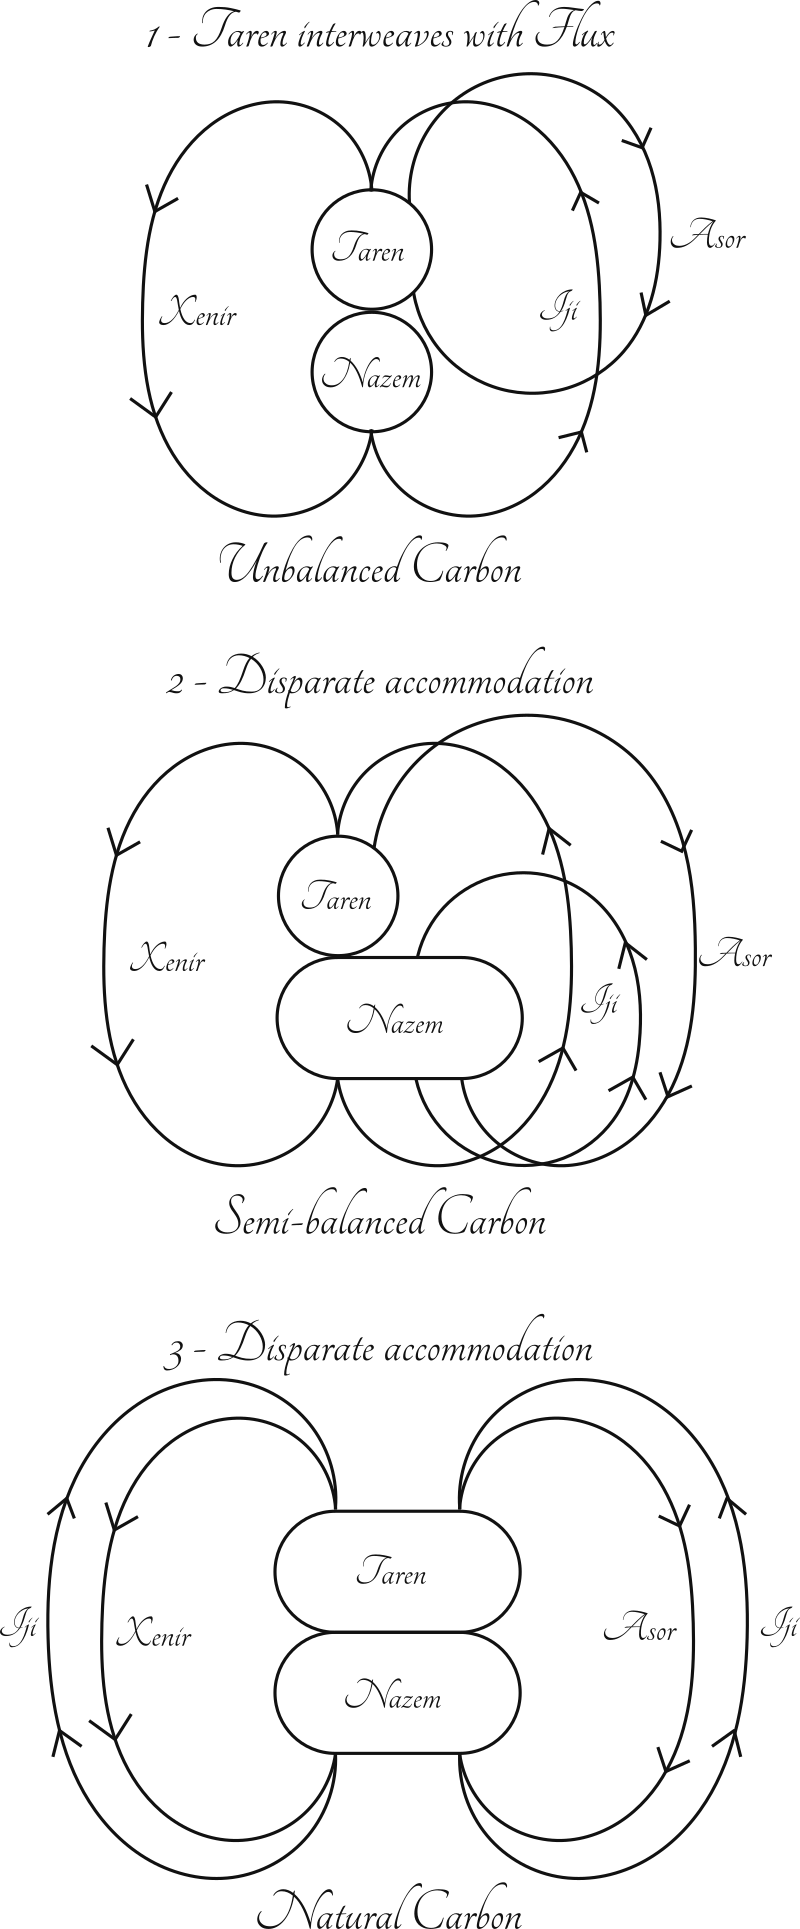
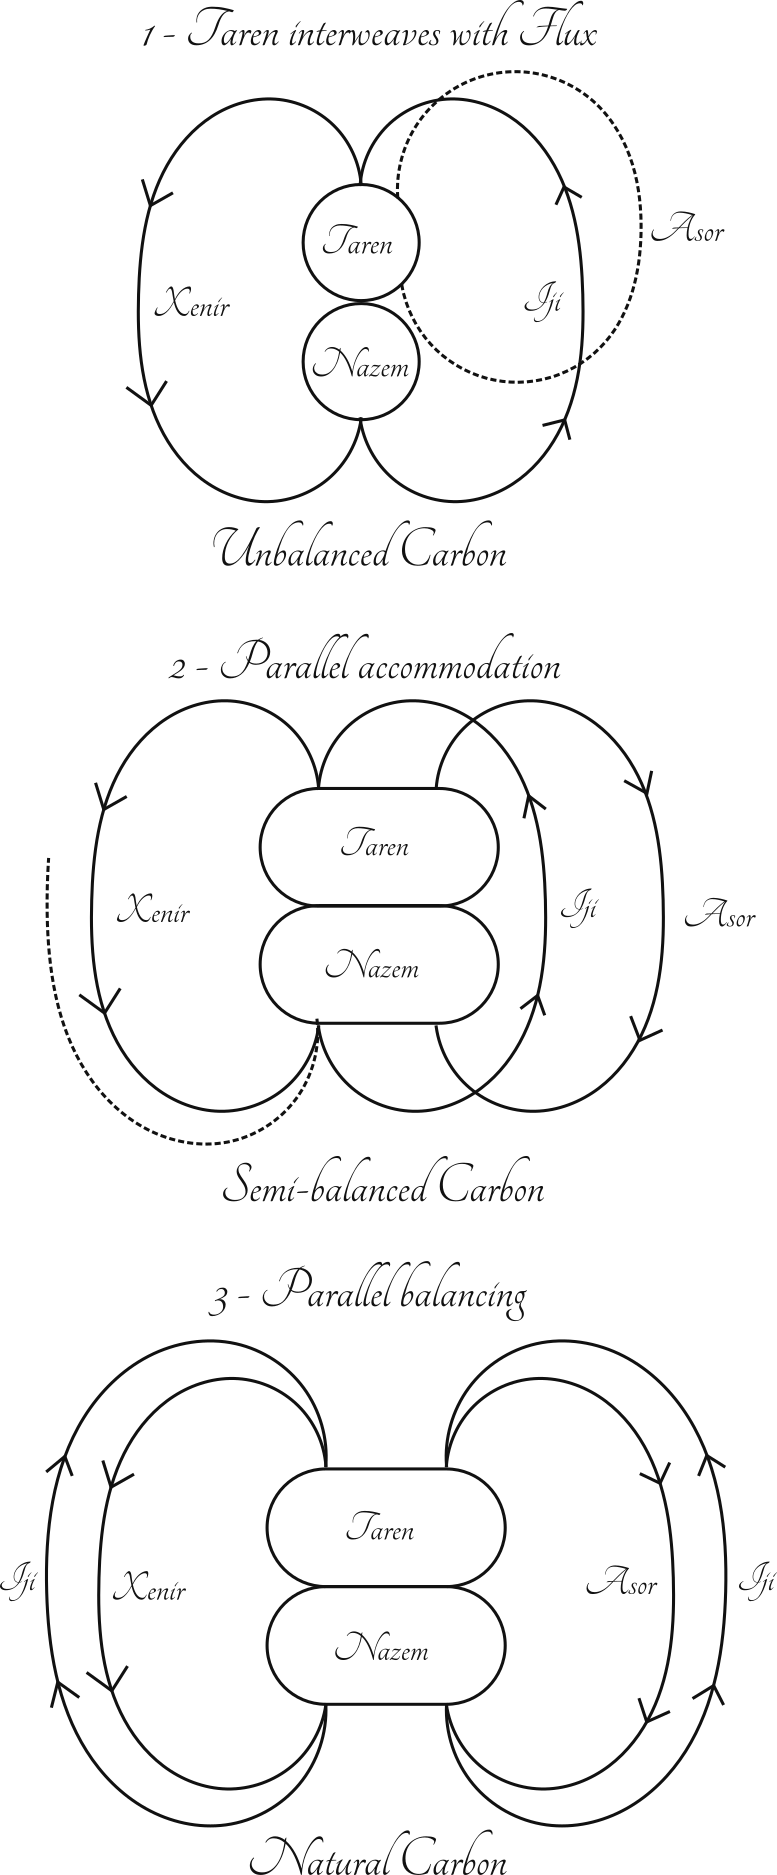
Quartz sync: Mar 26, 2025, 5:31 PM

diff --git a/content/Cosmology/Chemical Balancing.md b/content/Cosmology/Chemical Balancing.md
@@ -21,13 +21,15 @@ At this point there are multiple ways to balance this weave, depending on where 
 
 ## Natural Balancing
 
-If the threads or weaves needed for the other forms of balancing do not exist around the unbalanced weave in the moment of its formation, one of the following effects will take place to balance the wave, depending on the initial state.
+If the threads or weaves needed for the other forms of balancing do not exist around the unbalanced weave in the moment of its formation, one of the following processes will take place to balance the weave, depending on the initial state.
 
-### Taren+Ring Balancing for Water
+### Taren+Ring Balancing
 
 If Taren interweaves with a Ring, like Wala, the disparate thread Nazem will increase to be able to receive the field of the analogous thread, in this case Deik from Wala, a process called *disparate accommodation*. 
 
-Because Nazem increases, and a loop always brings with it a field of its analogous thread, in this case Iji, it will flow into Wala, finishing the balancing process by *parallel balancing*.
+Because Nazem increases, and a loop always brings with it a field of its analogous thread, in this case Iji, it will flow into Wala, because it currently has only one outgoing flow, and is thus vulnerable to an incoming flow, finishing the balancing process by *parallel balancing*.
+
+This same process happens in the formation of Natural Mercury, starting with Intent Ring Deren.
 
 ![[Natural Water Formation.png#invert|500]]
 
@@ -68,9 +70,11 @@ In chemical notation, this process can be described as follows:
 
 ### Taren+Flux Balancing for Carbon
 
-If Taren interweaves with a Flux, like Asor, the disparate thread Nazem will increase to be able to receive the potential field of Asor, the process of *disparate accommodation*.
+If Taren interweaves with a Flux, like Asor, both Taren and Nazem will have to increase at the same time to be able to accommodate the potential field of Asor, the process of *parallel accommodation*.
 
-Because Nazem increases, and a loop always brings with it a field of its analogous thread, in this case Iji, the Taren will have to increase as well to receive the field of Iji, another step of *disparate accommodation*, finishing the balancing process.
+Because both Taren and Nazem increase and the weave currently has two fluxes and one rush, Nazem evokes a second rush of Iji to balance the weave, the process of *parallel balancing*.
+
+This same process happen in the formation of Natural Sulfur, starting with Impetus Flux Deik.
 
 ![[Natural Carbon Formation.png#invert|500]]
 
@@ -86,18 +90,18 @@ In chemical notation, this process can be described as follows:
 	- Total Chaos = 6
 	- Status: Unbalanced
 
-2) After the first disparate accommodation takes place we have:
-	- Taren 3s
+2) After the parallel accommodation takes place we have:
+	- 2 Taren 3s
 	- Xenir 2s1c
 	- Asor 2s1c
 	- Iji 1s2c
 	- Iji 2c
 	- 2 Nazem 3c
-	- Total Soul = 8
+	- Total Soul = 11
 	- Total Chaos = 12
 	- Status: Semi-balanced
 
-3) After the second disparate accommodation takes place we have:
+3) After the parallel balancing takes place we have:
 	- 2 Taren 3s
 	- Xenir 2s1c
 	- Asor 2s1c
@@ -109,9 +113,99 @@ In chemical notation, this process can be described as follows:
 
 ### Taren+Bind Balancing for Oxygen
 
+If Taren interweaves with a Bind, like Zidai, the disparate thread Taren will increase to be able to receive the field of the analogous thread, in this case Alca from Zidai, the process of *disparate accommodation*. 
+
+Because Taren increases, and a loop always brings with it a field of its analogous thread, in this case Xenir, it will flow into Zidai, because it currently has only one outgoing flow, and is thus vulnerable to an incoming flow, finishing the balancing process by *parallel balancing*.
+
+This same process happens in the formation of Natural Neon, starting with Impetus Bind Uma.
+
+![[Natural Oxygen Formation.png#invert|500]]
+
+In chemical notation, this process can be described as follows:
+
+1) In the Unbalanced Oxygen we have:
+	- Taren 3s
+	- Xenir 2s1c
+	- Iji 1s2c
+	- Alca 2c
+	- Zidai 3c
+	- Nazem 3c
+	- Total Soul = 6
+	- Total Chaos = 11
+	- Status: Unbalanced
+
+2) After disparate accommodation takes place we have:
+	- 2 Taren 3s
+	- Xenir 2s1c
+	- Xenir 2s
+	- Iji 1s2c
+	- Alca 2c1s
+	- Zidai 3c
+	- Nazem 3c
+	- Total Soul = 12
+	- Total Chaos = 11
+	- Status: Semi-balanced
+
+3) After parallel balancing takes place we have:
+	- 2 Taren 3s
+	- 2 Xenir 2s1c
+	- Iji 1s2c
+	- Alca 2c1s
+	- Zidai 3c
+	- Nazem 3c
+	- Total Soul = 12
+	- Total Chaos = 12
+	- Status: Balanced
+
 ### Taren+Rush Balancing for Silicon
 
+If Taren interweaves with a Rush, like Alca, both Taren and Nazem will have to increase at the same time to be able to accommodate the potential field of Alca, the process of *parallel accommodation*.
+
+Because both Taren and Nazem increase and the weave currently has two rushes and one flux, Taren evokes a second flux of Xenir to balance the weave, the process of *parallel balancing*.
+
+This same process happen in the formation of Natural Calcium, starting with Impetus rush Sal.
+
+![[Natural Silicon Formation.png#invert|500]]
+
+In chemical notation, this process can be described as follows:
+
+1) In the Unbalanced Silicon we have:
+	- Taren 3s
+	- Xenir 2s1c
+	- Alca 2c
+	- Iji 1s2c
+	- Nazem 3c
+	- Total Soul = 6
+	- Total Chaos = 8
+	- Status: Unbalanced
+
+2) After the parallel accommodation takes place we have:
+	- 2 Taren 3s
+	- Xenir 2s1c
+	- Xenir 2s
+	- Alca 1s2c
+	- Iji 1s2c
+	- 2 Nazem 3c
+	- Total Soul = 12
+	- Total Chaos = 11
+	- Status: Semi-balanced
+
+3) After the parallel balancing takes place we have:
+	- 2 Taren 3s
+	- 2 Xenir 2s1c
+	- Alca 1s2c
+	- Iji 1s2c
+	- 2 Nazem 3c
+	- Total Soul = 12
+	- Total Chaos = 12
+	- Status: Balanced
 
 ## Metallic Balancing
 
 ## Pair Balancing
+
+## Summary of Terms
+
+- *Parallel balancing*: the process by which a flux emerges to balance a parallel flux.
+- *Disparate accommodation*: the process by which the disparate of the flux thread will increase to accommodate the incoming flow.
+- *Parallel accommodation*: the process by which both opposite loops increase at the same time to accommodate a flux.

diff --git a/content/Cosmology/Elements.md b/content/Cosmology/Elements.md
@@ -3,3 +3,13 @@ Elements, also called *material weaves*, are weaves formed from the interaction 
 
 The elements of the realities are represented in the periodic table below. To understand how these elements came to be, see [[Chemical Balancing]].
 
+| Thread | Natural | Metallic |
+| ------ | ------- | -------- |
+| Deren  | Mercury | Cobalt   |
+| Asor   | Carbon  | Copper   |
+| Zidai  | Oxygen  | Aluminum |
+| Alca   | Silicon | Lead     |
+| Wala   | Water   | Tin      |
+| Deik   | Sulfur  | Bismuth  |
+| Uma    | Neon    | Platinum |
+| Sal    | Calcium | Cesium   |
